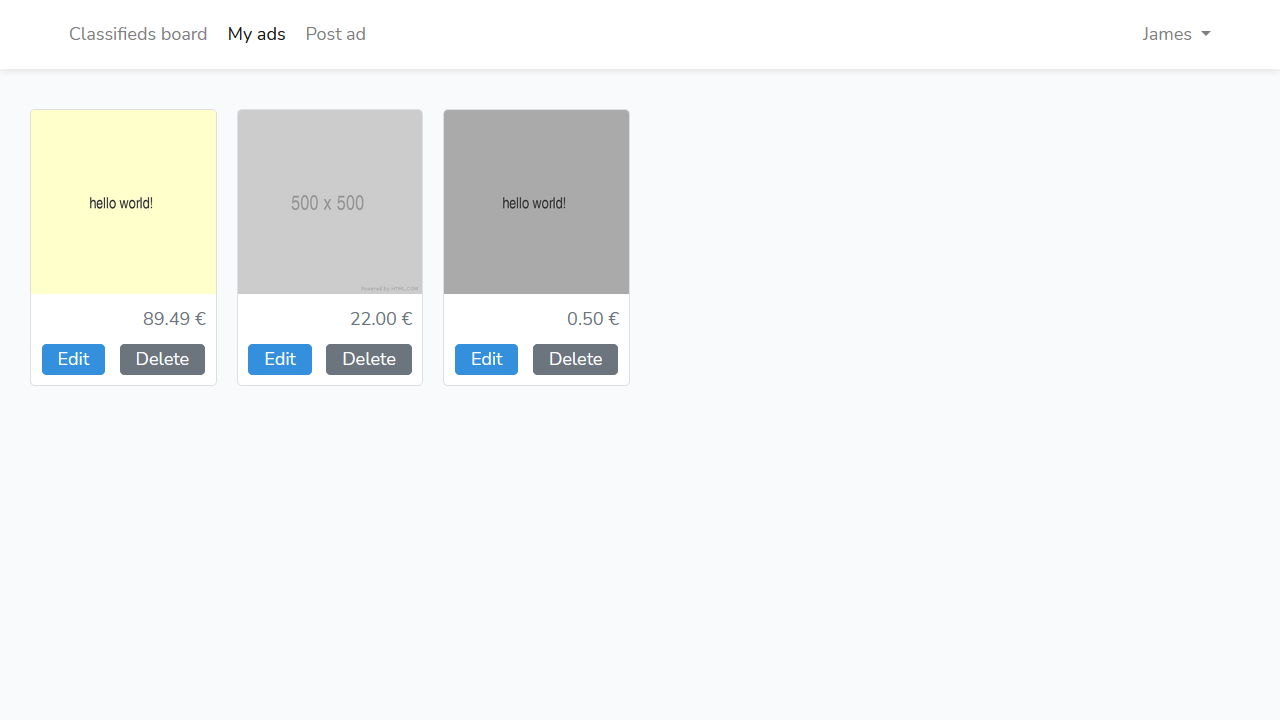
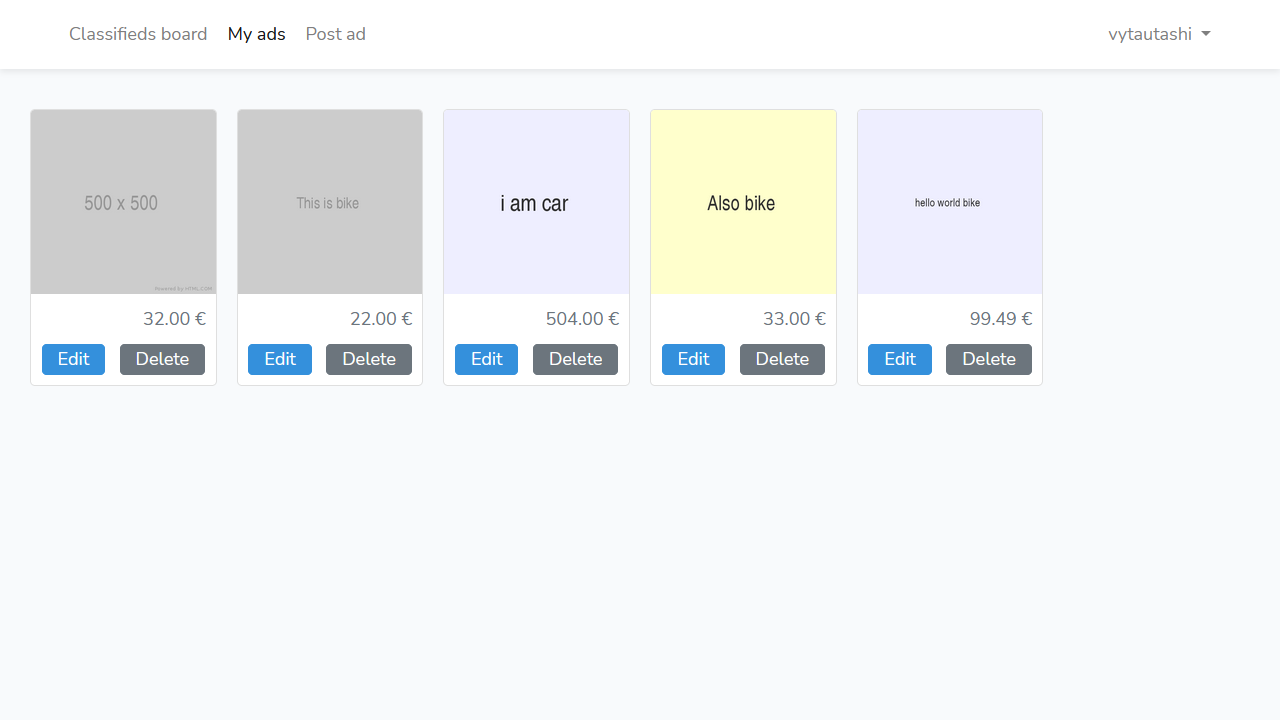
closes #4 add ability to assign category

diff --git a/app/Http/Controllers/AdvertisementController.php b/app/Http/Controllers/AdvertisementController.php
@@ -5,6 +5,7 @@ namespace App\Http\Controllers;
 use Illuminate\Support\Facades\Auth;
 use Illuminate\Http\Request;
 use App\Models\Advertisement;
+use App\Models\Category;
 
 class AdvertisementController extends Controller
 {
@@ -12,23 +13,37 @@ class AdvertisementController extends Controller
         'description' => 'required|min:10|max:1000',
         'price' => 'required|numeric|between:0,99999.99',
         'image' => 'required|image|mimes:jpeg,png,jpg,gif,svg|max:2048',
+        'category_id' => 'required|exists:categories,id',
     ];
 
     public function __construct()
     {
-        $this->middleware('auth', ['except' => ['index', 'show']]);
+        $this->middleware('auth', ['except' => ['index', 'show', 'adsByCategory']]);
     }
 
     public function index()
     {
         $ads = Advertisement::paginate(8);
 
-        return view('advertisement.index', ['ads' => $ads]);
+        return view('advertisement.index', ['ads' => $ads, 'categories' => Category::all()]);
+    }
+
+    public function adsByCategory($id)
+    {
+        $category = Category::find($id);
+
+        if (!$category) {
+            abort(404);
+        }
+
+        $ads = Advertisement::where('category_id', $category->id)->paginate(8);
+
+        return view('advertisement.index', ['ads' => $ads, 'categories' => Category::all(), 'category' => $category]);
     }
 
     public function create()
     {
-        return view('advertisement.create');
+        return view('advertisement.create', ['categories' => Category::all()]);
     }
 
     public function store(Request $request)
@@ -65,7 +80,7 @@ class AdvertisementController extends Controller
             abort(403);
         }
 
-        return view('advertisement.edit', ['ad' => $ad]);
+        return view('advertisement.edit', ['ad' => $ad, 'categories' => Category::all()]);
     }
 
     public function update(Request $request, $id)

diff --git a/resources/views/advertisement/edit.blade.php b/resources/views/advertisement/edit.blade.php
@@ -20,6 +20,18 @@
         <form method="post" enctype="multipart/form-data" action="{{ route('advertisement.update', $ad->id) }}">
             @csrf
             @method('PUT')
+            <label for="category_id" class="mt-2 mb-1">Category:</label>
+            <select class="form-control col-sm-8" id="category_id" name="category_id">
+                <option>Select category</option>
+                @php
+                    $category_id = old('category_id') ?? $ad->category_id;
+                @endphp
+                @foreach ($categories as $cat)
+                    <option value="{{ $cat->id }}" {{ $category_id == $cat->id ? ' selected' : '' }}>
+                        {{ $cat->title }}</option>
+                @endforeach
+            </select>
+
             <label for="description" class="mt-2 mb-1">Description:</label>
             <textarea class="form-control col-sm-8" id="description" name="description" rows="4"
                 cols="50">{{ old('description') ?? $ad->description }}</textarea>

diff --git a/database/migrations/2021_09_02_080623_create_categories_table.php b/database/migrations/2021_09_02_080623_create_categories_table.php
@@ -1,0 +1,41 @@
+<?php
+
+use Illuminate\Database\Migrations\Migration;
+use Illuminate\Database\Schema\Blueprint;
+use Illuminate\Support\Facades\Schema;
+use Illuminate\Support\Facades\DB;
+
+class CreateCategoriesTable extends Migration
+{
+    /**
+     * Run the migrations.
+     *
+     * @return void
+     */
+    public function up()
+    {
+        Schema::create('categories', function (Blueprint $table) {
+            $table->id();
+            $table->string('title', 200);
+            $table->timestamps();
+        });
+
+
+        DB::table('categories')->insert([
+            ['title' => 'Bikes'],
+            ['title' => 'Cars'],
+            ['title' => 'Books'],
+            ['title' => 'Other'],
+        ]);
+    }
+
+    /**
+     * Reverse the migrations.
+     *
+     * @return void
+     */
+    public function down()
+    {
+        Schema::dropIfExists('categories');
+    }
+}

diff --git a/resources/views/advertisement/index.blade.php b/resources/views/advertisement/index.blade.php
@@ -4,6 +4,23 @@
 
 @section('content')
 
+    <div class="navbar navbar-expand-md navbar-light bg-white shadow-sm">
+        <ul class="navbar-nav">
+            <li class="nav-item  {{ Route::currentRouteName() == 'advertisement.index' ? 'active' : '' }}">
+                <a class="nav-link" href="{{ route('advertisement.index') }}">All</a>
+            </li>
+            @php
+                $category_id = $category->id ?? '';
+            @endphp
+            @foreach ($categories as $cat)
+                <li class="nav-item {{ $category_id === $cat->id ? 'active' : '' }}">
+                    <a class="nav-link"
+                        href="{{ route('advertisement.adsByCategory', $cat->id) }}">{{ $cat->title }}</a>
+                </li>
+            @endforeach
+        </ul>
+    </div>
+
     <div class="row mx-3">
         @foreach ($ads as $ad)
             <div class="col-3 p-0">

diff --git a/resources/views/advertisement/create.blade.php b/resources/views/advertisement/create.blade.php
@@ -19,6 +19,15 @@
 
         <form method="post" enctype="multipart/form-data" action="{{ route('advertisement.index') }}">
             @csrf
+            <label for="category_id" class="mt-2 mb-1">Category:</label>
+            <select class="form-control col-sm-8" id="category_id" name="category_id">
+                <option>Select category</option>
+                @foreach ($categories as $cat)
+                    <option value="{{ $cat->id }}" {{ old('category_id') == $cat->id ? ' selected' : '' }}>
+                        {{ $cat->title }}</option>
+                @endforeach
+            </select>
+
             <label for="description" class="mt-2 mb-1">Description:</label>
             <textarea class="form-control col-sm-8" id="description" name="description" rows="4"
                 cols="50">{{ old('description') }}</textarea>

diff --git a/database/migrations/2021_09_02_081635_add_category_id_to_advertisements.php b/database/migrations/2021_09_02_081635_add_category_id_to_advertisements.php
@@ -1,0 +1,32 @@
+<?php
+
+use Illuminate\Database\Migrations\Migration;
+use Illuminate\Database\Schema\Blueprint;
+use Illuminate\Support\Facades\Schema;
+
+class AddCategoryIdToAdvertisements extends Migration
+{
+    /**
+     * Run the migrations.
+     *
+     * @return void
+     */
+    public function up()
+    {
+        Schema::table('advertisements', function (Blueprint $table) {
+            $table->foreignId('category_id')->constrained();
+        });
+    }
+
+    /**
+     * Reverse the migrations.
+     *
+     * @return void
+     */
+    public function down()
+    {
+        Schema::table('advertisements', function (Blueprint $table) {
+            $table->dropConstrainedForeignId('category_id');
+        });
+    }
+}

diff --git a/routes/web.php b/routes/web.php
@@ -22,6 +22,9 @@ Route::get('/', function () {
 Route::get('advertisement/admin', [AdvertisementController::class, 'admin'])
     ->name('advertisement.admin');
 
+Route::get('advertisement/category/{id}', [AdvertisementController::class, 'adsByCategory'])
+    ->name('advertisement.adsByCategory');
+
 Route::resource('advertisement', AdvertisementController::class);
 
 Auth::routes();

diff --git a/app/Models/Category.php b/app/Models/Category.php
@@ -1,0 +1,19 @@
+<?php
+
+namespace App\Models;
+
+use Illuminate\Database\Eloquent\Factories\HasFactory;
+use Illuminate\Database\Eloquent\Model;
+
+class Category extends Model
+{
+    use HasFactory;
+    protected $fillable = [
+        'title',
+    ];
+
+    public function advertisements()
+    {
+        return $this->hasMany(Advertisement::class);
+    }
+}

diff --git a/resources/views/advertisement/show.blade.php b/resources/views/advertisement/show.blade.php
@@ -21,6 +21,7 @@
 
             <div class="col">
                 <h5><b>id: </b>{{ $ad->id }}</h5>
+                <h5><b>category: </b>{{ $ad->category->title }}</h5>
                 <h5><b>price: </b>{{ $ad->price }} &euro;</h5>
                 <h5><b>description:</b></h5>
                 <p>{{ $ad->description }}</p>

diff --git a/app/Models/Advertisement.php b/app/Models/Advertisement.php
@@ -13,7 +13,13 @@ class Advertisement extends Model
     protected $fillable = [
         'description',
         'price',
+        'category_id',
     ];
+
+    public function category()
+    {
+        return $this->belongsTo(Category::class);
+    }
 
     public function delete()
     {
